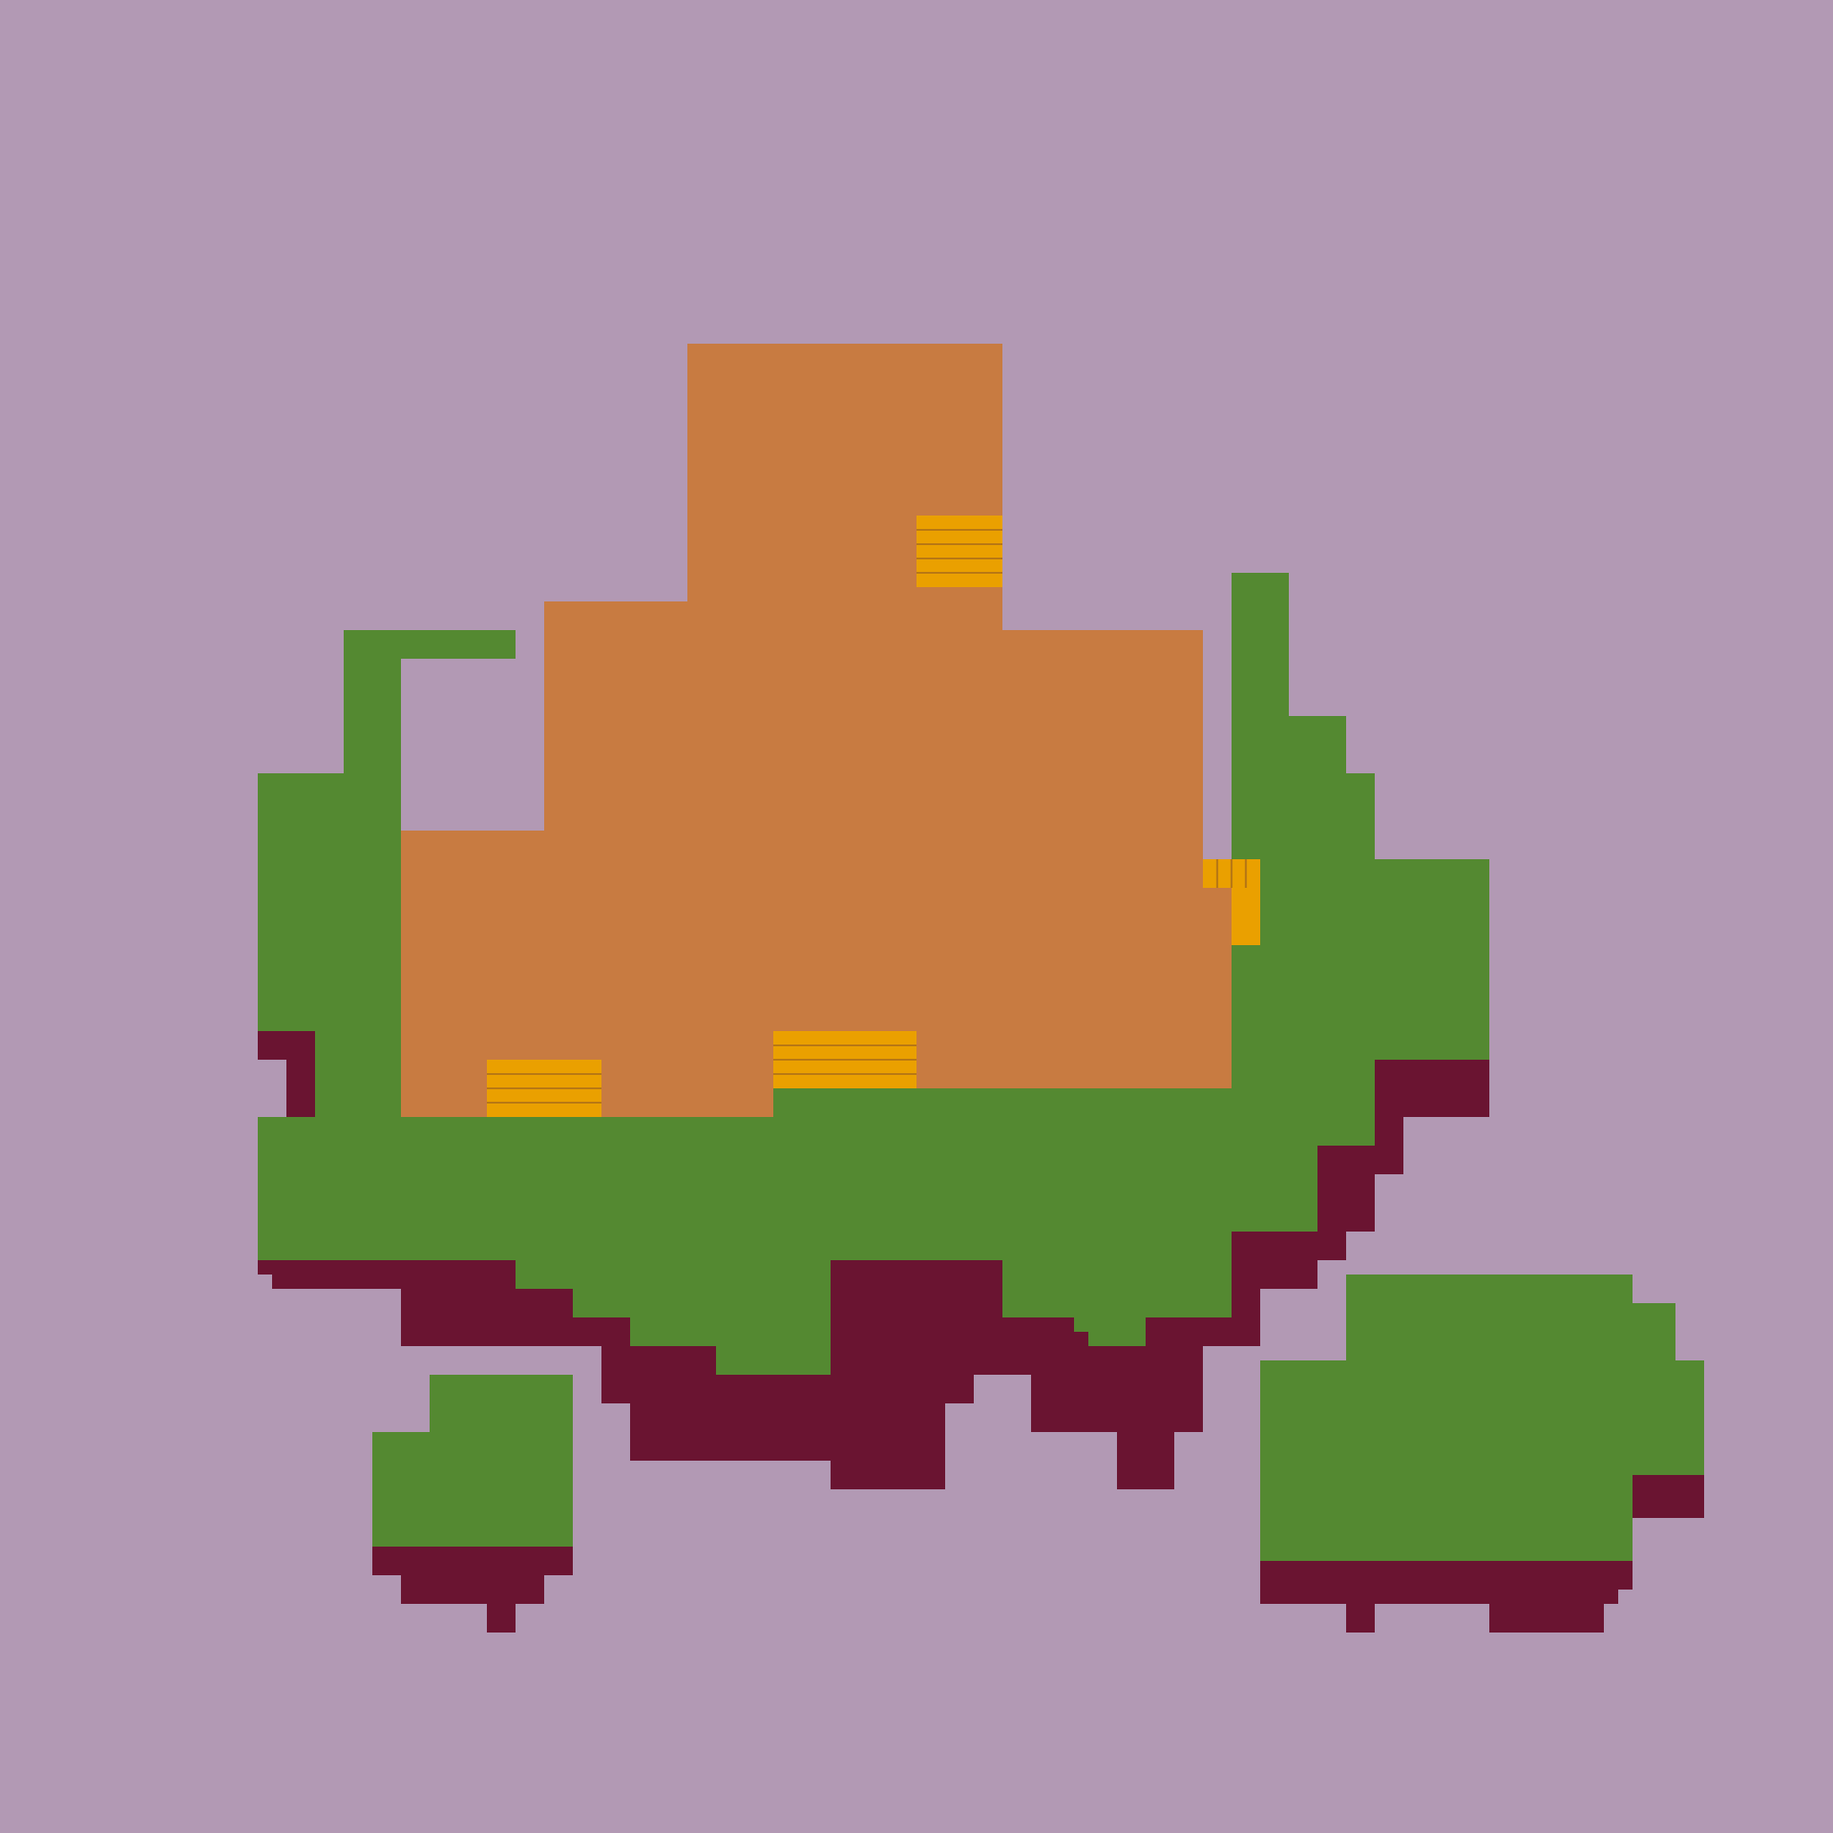
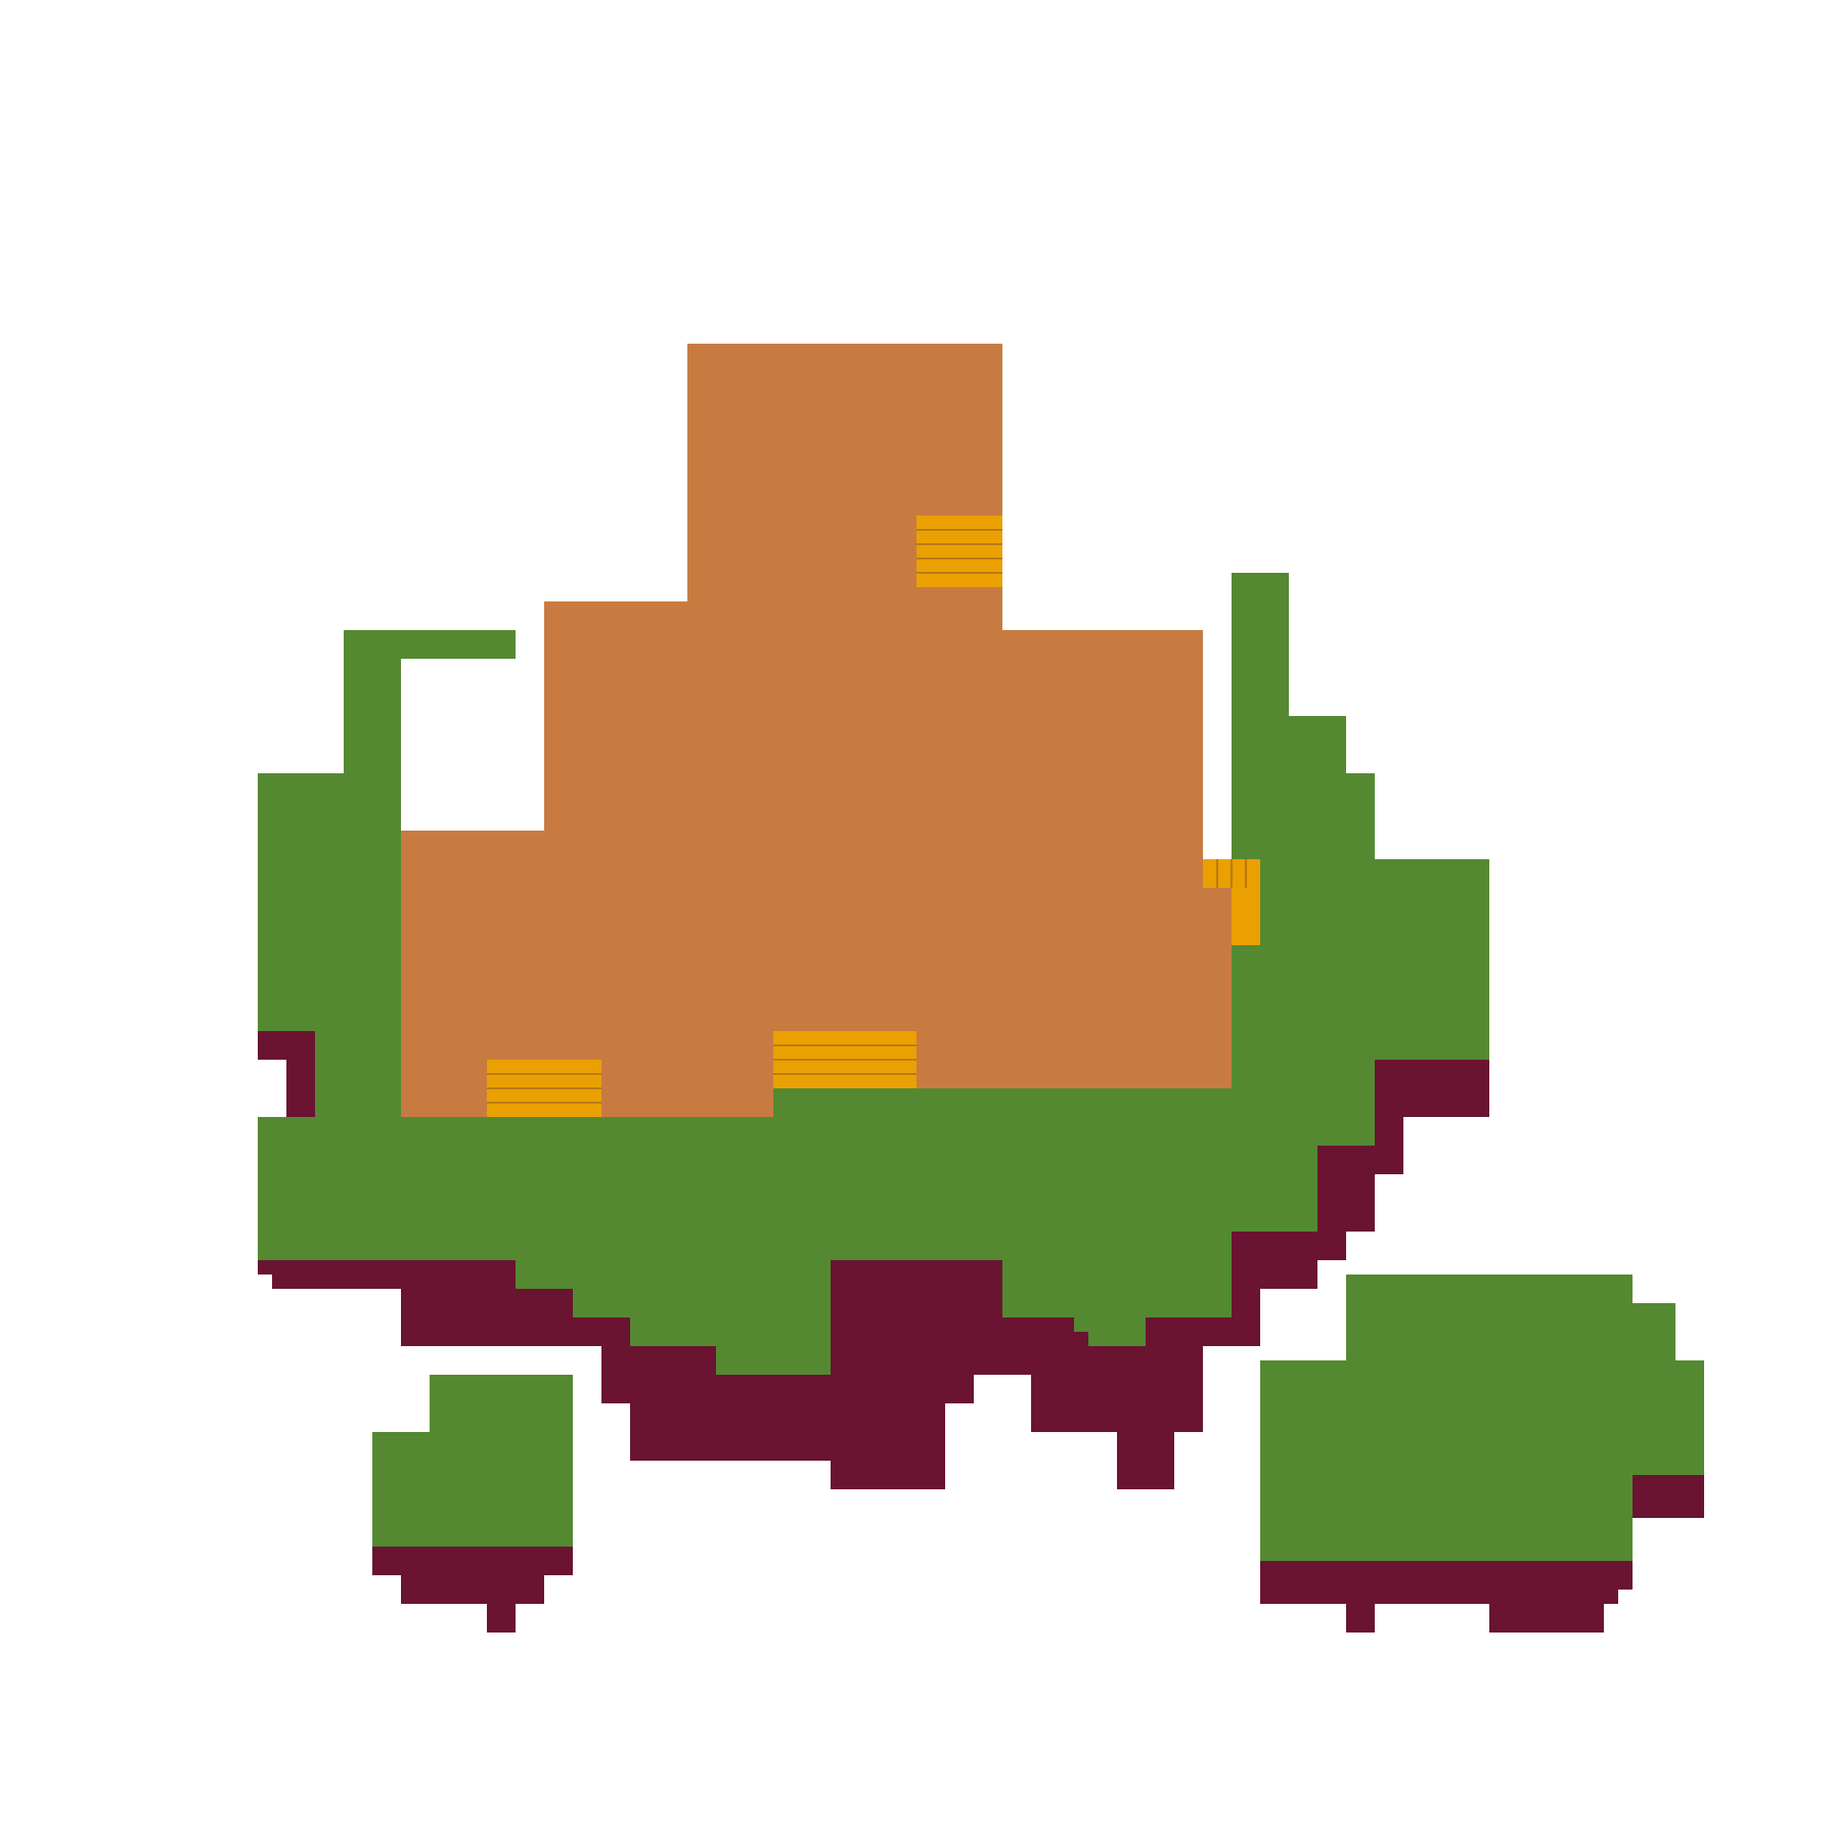
weather and assets

diff --git a/Elsewhere/src/systems/Windows.js b/Elsewhere/src/systems/Windows.js
@@ -1,0 +1,86 @@
+// ---------------------------------------------------------------
+// Elsewhere · Windows.js
+// ---------------------------------------------------------------
+// Each window is a live viewport on the sky. Every frame it repaints a
+// small offscreen canvas in three layers:
+//   1. the sky frame for the current weather (sky.png) — the view
+//   2. rain streaks + the lightning flash — live weather
+//   3. the frame + ledge — a hand-drawn PNG laid over the top
+// and hands that canvas to the engine as the window's image, so the
+// glass shows the weather in the wall's own sort order and the player
+// still walks in front of it.
+//
+// Two layers are paintable: the sky sheet (shared with the backdrop)
+// and each window's frame PNG (assets/sprites/<id>_frame.png — opaque
+// wood, transparent panes). The sky + rain + flash are the viewport.
+// ---------------------------------------------------------------
+
+import { loadImage } from './Sprites.js';
+
+const PX = 32;                     // tiles -> canvas pixels
+
+export class Windows {
+  // scene: CABIN_SCENE · ambience: Ambience module · sky: { img, def }
+  constructor(scene, ambience, sky) {
+    this.amb = ambience;
+    this.sky = sky;
+    this.items = [];
+    for (const o of scene.objects) {
+      if (o.category !== 'mounted' || !/window/.test(o.id)) continue;
+      const vb = o.visualBounds;
+      const glass = (o.shapes.find(s => s.role === 'glass') || o.shapes[0]).rect;
+      const w = Math.round(vb[2] * PX), h = Math.round(vb[3] * PX);
+      const cv = document.createElement('canvas'); cv.width = w; cv.height = h;
+      this.items.push({
+        id: o.id, cv, ctx: cv.getContext('2d'), w, h, drops: [],
+        frame: loadImage(`assets/sprites/${o.id}_frame.png`),
+        glass: [Math.round((glass[0] - vb[0]) * PX), Math.round((glass[1] - vb[1]) * PX),
+                Math.round(glass[2] * PX), Math.round(glass[3] * PX)],
+      });
+    }
+  }
+
+  // merge into the engine's images map, keyed by window id
+  images() { const m = {}; for (const it of this.items) m[it.id] = it.cv; return m; }
+
+  update(now, dt) {
+    const weather = this.amb.currentWeather();
+    const flash = this.amb.flashLevel ? this.amb.flashLevel() : 0;
+    const raining = weather === 'rain' || weather === 'storm';
+    const col = (this.sky.def.frames && this.sky.def.frames[weather]) ?? 0;
+    for (const it of this.items) this.paint(it, weather, col, raining, flash, dt);
+  }
+
+  paint(it, weather, col, raining, flash, dt) {
+    const c = it.ctx, [gx, gy, gw, gh] = it.glass;
+    c.clearRect(0, 0, it.w, it.h);
+    c.imageSmoothingEnabled = false;
+
+    // ---- viewport: sky + rain + flash, clipped to the glass ----
+    c.save(); c.beginPath(); c.rect(gx, gy, gw, gh); c.clip();
+    const S = this.sky.def, img = this.sky.img;
+    if (img && img.complete && img.naturalWidth)
+      c.drawImage(img, col * S.frameW, 0, S.frameW, S.frameH, gx, gy, gw, gh);
+    else { c.fillStyle = '#6da8d8'; c.fillRect(gx, gy, gw, gh); }
+
+    if (raining) {
+      if (!it.drops.length)
+        for (let i = 0; i < 26; i++)
+          it.drops.push({ x: Math.random() * gw, y: Math.random() * gh, s: 95 + Math.random() * 70, l: 5 + Math.random() * 5 });
+      c.strokeStyle = weather === 'storm' ? 'rgba(205,218,242,0.6)' : 'rgba(205,220,245,0.5)';
+      c.lineWidth = 1; c.beginPath();
+      for (const p of it.drops) {
+        p.y += p.s * dt; p.x += p.s * dt * 0.2;
+        if (p.y > gh) { p.y = -4; p.x = Math.random() * gw; }
+        c.moveTo(gx + p.x, gy + p.y); c.lineTo(gx + p.x - 1, gy + p.y + p.l);
+      }
+      c.stroke();
+    } else if (it.drops.length) it.drops = [];
+
+    if (flash > 0) { c.fillStyle = `rgba(255,255,255,${Math.min(0.85, flash * 0.8)})`; c.fillRect(gx, gy, gw, gh); }
+    c.restore();
+
+    // ---- frame + ledge: the hand-drawn layer over the viewport ----
+    if (it.frame.complete && it.frame.naturalWidth) c.drawImage(it.frame, 0, 0, it.w, it.h);
+  }
+}

diff --git a/Elsewhere/engine.js b/Elsewhere/engine.js
@@ -70,6 +70,8 @@
     }
     if(!end)return null;const path=[];for(let p=end;p;p=seen.get(key(p)))path.push(p);return path.reverse();
   }
+  // an Image is ready when loaded; a Canvas (live window sky) is always ready.
+  function rdy(x){return !!x&&(x.complete!==undefined?(x.complete&&x.naturalWidth>0):x.width>0);}
   function rect(ctx,r,color){ctx.fillStyle=color;ctx.fillRect(...r);}
   function polygon(ctx,points,color){ctx.fillStyle=color;ctx.beginPath();points.forEach((p,i)=>i?ctx.lineTo(...p):ctx.moveTo(...p));ctx.closePath();ctx.fill();}
   function rounded(ctx,x,y,w,h,r){ctx.beginPath();ctx.roundRect(x,y,w,h,r);ctx.fill();}
@@ -100,10 +102,13 @@
     ctx.fillStyle='#eee7ce';ctx.beginPath();ctx.ellipse(x-.16,y-2.46+bob,.065,.13,0,0,Math.PI*2);ctx.ellipse(x+.16,y-2.46+bob,.065,.13,0,0,Math.PI*2);ctx.fill();ctx.restore();
   }
   function drawScene(ctx,scene,view){
-    const {time=0,player=scene.spawn,grid=false,footprints=false,selection=null,details=true,showWalls=true,cutaway=true,groundOnly=false,walking=false,playerSprite=null,images={},ground=null}=view;
-    ctx.save();ctx.imageSmoothingEnabled=false;rect(ctx,[0,0,64,64],scene.palette.void);
+    const {time=0,player=scene.spawn,grid=false,footprints=false,selection=null,details=true,showWalls=true,cutaway=true,groundOnly=false,walking=false,playerSprite=null,images={},ground=null,bg=null}=view;
+    ctx.save();ctx.imageSmoothingEnabled=false;
+    // Weather sky backdrop behind the island; falls back to the flat void color.
+    if(bg&&rdy(bg.img)){ctx.drawImage(bg.img,bg.sx,bg.sy,bg.sw,bg.sh,0,0,64,64);}
+    else rect(ctx,[0,0,64,64],scene.palette.void);
     // Hand-drawn ground layer replaces the whole terrain/floor/stairs block when present.
-    if(ground&&ground.complete&&ground.naturalWidth){ctx.drawImage(ground,0,0,64,64);}
+    if(rdy(ground)){ctx.drawImage(ground,0,0,64,64);}
     else{
       for(const t of scene.terrain.filter(t=>t.id!=='floor'))for(const r of t.rects)rect(ctx,r,t.color);
       // Inferred floor behind the artwork prevents holes when walls fade.
@@ -126,11 +131,11 @@
         const o=g.o;if(o.category==='wall'&&!showWalls)continue;
         ctx.save();const b=renderBounds(o);if(o.category==='wall'&&cutaway&&player.x>b[0]&&player.x<b[0]+b[2]&&player.y>b[1]&&player.y<o.sortY)ctx.globalAlpha=.25;
         const oi=images[o.id];
-        if(oi&&oi.complete&&oi.naturalWidth){const vb=o.visualBounds;ctx.drawImage(oi,vb[0],vb[1],vb[2],vb[3]);}
+        if(rdy(oi)){const vb=o.visualBounds;ctx.drawImage(oi,vb[0],vb[1],vb[2],vb[3]);}
         else for(const s of o.shapes)rect(ctx,s.rect,s.color);
         for(const child of scene.objects.filter(c=>c.parent===o.id)){
           const ci=images[child.id];
-          if(ci&&ci.complete&&ci.naturalWidth){const cb=child.visualBounds;ctx.drawImage(ci,cb[0],cb[1],cb[2],cb[3]);}
+          if(rdy(ci)){const cb=child.visualBounds;ctx.drawImage(ci,cb[0],cb[1],cb[2],cb[3]);}
           else for(const s of child.shapes)rect(ctx,s.rect,s.color);
         }
         if(details)for(const p of o.parts)drawPart(ctx,p,time);

diff --git a/Elsewhere/src/main.js b/Elsewhere/src/main.js
@@ -14,6 +14,7 @@ import * as Modal from './systems/Modal.js';
 import * as Ambience from './systems/Ambience.js';
 import * as Interactions from './systems/Interactions.js';
 import { Animator, loadImage } from './systems/Sprites.js';
+import { Windows } from './systems/Windows.js';
 
 const E = window.CabinEngine;
 const scene = window.CABIN_SCENE;
@@ -96,6 +97,20 @@ function buildMap(data) {
   if (data.map && data.map.ground) MAP.ground = loadImage(data.map.ground);
   const objs = (data.map && data.map.objects) || {};
   for (const id in objs) MAP.images[id] = loadImage(objs[id]);
+}
+
+// ================= weather windows + backdrop =================
+let windows = null;
+function buildWindows(data) {
+  if (!SPR.sky) return;
+  windows = new Windows(scene, Ambience, { img: SPR.sky.img, def: data.sprites.sky });
+  Object.assign(MAP.images, windows.images());   // engine draws each window's live canvas
+}
+// the sky frame for the current weather, drawn behind the island
+function bgSky() {
+  if (!SPR.sky) return null;
+  const S = data.sprites.sky, col = (S.frames && S.frames[Ambience.currentWeather()]) ?? 0;
+  return { img: SPR.sky.img, sx: col * S.frameW, sy: 0, sw: S.frameW, sh: S.frameH };
 }
 
 // ================= cats =================
@@ -249,6 +264,7 @@ async function interact(obj) {
 data = await loadAll();
 buildSprites(data);
 buildMap(data);
+buildWindows(data);
 buildAccents(data);
 env = makeEnv();
 
@@ -268,6 +284,7 @@ requestAnimationFrame(loop);
 
 btn.addEventListener('click', async () => {
   Ambience.resume();                       // audio needs a user gesture
+  Ambience.applyWeather();                  // start the default (clear) ambience
   btn.disabled = true; splash.classList.add('is-loading');
   const bar = splash.querySelector('#clone-bar-fill');
   bar.style.transition = 'width 1.8s cubic-bezier(.4,.1,.3,1)';
@@ -349,6 +366,7 @@ function loop(t) {
   for (const c of cats) c.update(dt, t);
   for (const id in spawned) { const p = spawned[id].parts[0]; if (p._anim) { const rr = p._anim.rect(t); p.sx = rr[0]; p.sy = rr[1]; p.sw = rr[2]; p.sh = rr[3]; } }
   for (const a of accents) if (a.visible) { const rr = a.anim.rect(t); a.part.sx = rr[0]; a.part.sy = rr[1]; a.part.sw = rr[2]; a.part.sh = rr[3]; }
+  if (windows) windows.update(t, dt);
 
   const tx = player.x, ty = player.y - 1.2;
   cam.x += (tx - cam.x) * Math.min(1, dt * 8);
@@ -373,7 +391,7 @@ function loop(t) {
   ctx.translate(r.width / 2, r.height / 2);
   ctx.scale(zoom, zoom);
   ctx.translate(-cam.x, -cam.y);
-  E.drawScene(ctx, scene, { time: t, player, walking: !!(dx || dy), cutaway: true, details: true, playerSprite, ground: MAP.ground, images: MAP.images });
+  E.drawScene(ctx, scene, { time: t, player, walking: !!(dx || dy), cutaway: true, details: true, playerSprite, ground: MAP.ground, images: MAP.images, bg: bgSky() });
   ctx.restore();
 
   Ambience.drawOverlay(ctx, r.width, r.height, dt, t);

diff --git a/Elsewhere/src/systems/Ambience.js b/Elsewhere/src/systems/Ambience.js
@@ -17,7 +17,13 @@ let fireOn = false;
 let rainParticles = [];
 let flash = 0;
 let weather = 'clear';
-const WEATHER = { clear: [], rain: ['rain'], birds: ['birds'], storm: ['rain', 'thunder'] };
+// Four skies the windows cycle through. Each names the audio layers it mixes.
+const WEATHER = {
+  clear:  ['birds'],            // sunny, birdsong
+  rain:   ['rain'],             // overcast, raining
+  storm:  ['rain', 'thunder'],  // dark, lightning + thunder
+  cloudy: [],                   // calm overcast, quiet
+};
 
 function ac() {
   if (!actx) {
@@ -118,6 +124,9 @@ export function cycleWeather(list) {
   return weather;
 }
 export function currentWeather() { return weather; }
+export function flashLevel() { return flash; }        // lightning, 1 → 0, for the windows to mirror
+// start (or re-apply) the current weather's audio layers — called once audio is unlocked
+export function applyWeather() { for (const n of ['rain', 'birds', 'thunder']) set(n, (WEATHER[weather] || []).includes(n)); }
 
 export function toggleFire() { fireOn = !fireOn; set('fire', fireOn, 0.3); return fireOn; }
 export function isFireOn() { return fireOn; }

diff --git a/Elsewhere/README.md b/Elsewhere/README.md
@@ -37,8 +37,10 @@ bioprinter dialog (**E / Space**) → you walk.
 Interactions wired now: books / games / music / art (modals);
 **coffee** (whirrs, brews a cup, "firewall blocked the espresso",
 cup vanishes); **sushi** (a random piece + a line); **fireplace**
-(on/off + crackle); **window** (cycles weather: clear → rain →
-birds → storm); four **cats** (pet with E).
+(on/off + crackle); **either window** (cycles the weather: clear →
+rain → storm → cloudy — the sky in every window *and* the whole
+backdrop change, with rain + thunder + lightning); four **cats**
+(pet with E).
 
 ---
 
@@ -65,6 +67,7 @@ Elsewhere/
     └── systems/
         ├── Sprites.js      sheet loader + per-entity Animator
         ├── Interactions.js effect runner (data → actions)
+        ├── Windows.js      live sky viewports (weather) + frame overlay
         ├── Ambience.js     Web Audio layers + screen overlays
         ├── Dialog.js       DOM dialog, E/Space advance
         ├── Modal.js        content popups
@@ -87,6 +90,8 @@ keeps animating. Layout is in `sprites.yaml`:
 | `sushi.png` | 6×1 | 28×28 | one piece per frame |
 | `flame.png` | 4×1 | 48×48 | fireplace fire, flicker loop |
 | `platter.png` | 4×1 | 32×32 | turntable vinyl, spin loop |
+| `sky.png` | 4×1 | 256×256 | weather backdrop + window view: clear/rain/storm/cloudy |
+| `window_<id>_frame.png` | — | per window | frame + ledge over the glass; transparent panes |
 
 Change a frame size? Update it in `sprites.yaml` and redraw at that
 size. Missing sheet? The engine falls back to the code-drawn shape,
@@ -177,6 +182,20 @@ side.
 `anim` to loop, and optionally `visibleWhen: fire` to tie it to the
 fireplace toggle. The flame and the spinning record are the two today;
 add a candle flicker, steam, a bubbling pot the same way.
+
+**The weather** is one sky sheet (`sky.png`, four frames) used in two
+places: the **full backdrop** behind the floating island (the void is
+transparent now, so the sky shows through) and the **interior of every
+window**. Tapping either window steps the weather clear → rain → storm
+→ cloudy; `Ambience.currentWeather()` is the single source of truth and
+both the backdrop (`bgSky()` in `main.js`) and `Windows.js` read it.
+Rain streaks and the lightning flash draw live on top — across the
+screen (`Ambience.drawOverlay`) and inside each window (`Windows.js`).
+A window is drawn in three layers: the sky frame, the live rain/flash,
+then its **frame + ledge** PNG (`assets/sprites/window_<id>_frame.png`)
+— paint that to redraw the woodwork; the glass stays a viewport. Add a
+weather by adding a `sky.png` frame + a `WEATHER` entry in `Ambience.js`
+and listing it in the windows' `cycle_weather`.
 
 **Ambience** layers (`rain`, `fire`, `birds`, `thunder`) are
 synthesized in `Ambience.js`. Each is a swap-point: drop in a real
